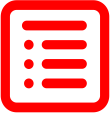
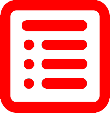
Alterações Estruturais

diff --git a/Form1.cs b/Form1.cs
@@ -212,14 +212,14 @@ namespace CORAC
 
                 if (Conteudo.Result.IsSuccessStatusCode)
                 {
-                    Bitmap Internet_ON = Change_Color(Properties.Resources.Update_System_126px, Vermelho, Azul);
+                    Bitmap Internet_ON = Change_Color(Properties.Resources.Update_System_256px, Vermelho, Azul);
                     picture_Atualizacoes_CORAC.Image = Internet_ON;
 
                     return true;
                 }
                 else
                 {
-                    Bitmap Internet_ON = Change_Color(Properties.Resources.Update_System_126px, Azul, Vermelho);
+                    Bitmap Internet_ON = Change_Color(Properties.Resources.Update_System_256px, Azul, Vermelho);
                     picture_Atualizacoes_CORAC.Image = Internet_ON;
                     return false;
                 }
@@ -232,7 +232,7 @@ namespace CORAC
                 Gerar_Arquivo.TratadorErros(E, GetType().Name);
 
                 picture_Atualizacoes_CORAC.SizeMode = PictureBoxSizeMode.StretchImage;
-                Bitmap Internet_ON = Change_Color(Properties.Resources.Update_System_126px, Azul, Vermelho);
+                Bitmap Internet_ON = Change_Color(Properties.Resources.Update_System_256px, Azul, Vermelho);
 
                 picture_Atualizacoes_CORAC.Image = Internet_ON;
 
@@ -270,7 +270,6 @@ namespace CORAC
                  await BuscarRegistro_CORAC.SelectTabelaJSON();
                 if (!BuscarRegistro_CORAC.getError)
                 {
-                    pictureBox_Registro_CORAC.SizeMode = PictureBoxSizeMode.StretchImage;
 
                     JProperty Dados = BuscarRegistro_CORAC.getDados().ResultadoDados;
                     if(Dados.Value.HasValues)
@@ -278,10 +277,36 @@ namespace CORAC
                         string Status = (string)Dados.Value[0][3];
                         if (Status == "Ativado")
                         {
-                            //Registro encontrado e equipamento ativado
+                            /**
+                             * Informando que a máquina está ligada
+                             */
+                            string getChave = Dados.Value[0][0].Value<string>();
+                            List<KeyValuePair<string, string>> KDados = new List<KeyValuePair<string, string>>();
+                            KDados.Add(new KeyValuePair<string, string>("0", getChave));
+                            BuscarRegistro_CORAC.setKeyDadosAtualizar(KDados);
+
+                            List<KeyValuePair<string, string>> ADados = new List<KeyValuePair<string, string>>();
+                            ADados.Add(new KeyValuePair<string, string>("Status", "Ligada"));
+
+                            BuscarRegistro_CORAC.sendTabela = "334644edbd3aecbe746b32f4f2e8e5fb";
+                            BuscarRegistro_CORAC.setDadosAtualizar(ADados);
+                            String Estado = "";
+                            Boolean Rst = await BuscarRegistro_CORAC.AtualizarDadosTabela();
+                            if (Rst)
+                            {
+                                Estado = "Mudança de status feita com sucesso!";
+                            }
+                            else
+                            {
+                                Estado = "Mudança de status não foi realizada com sucesso!";
+                            }
+                            /*
+                             * Registro encontrado e equipamento ativado
+                             */
                             Registro_Corac.Status = StatusRegistro.Habilitado;
-                            Bitmap Internet_ON = Change_Color(Properties.Resources.Registro_128px, Vermelho, Azul);
-                            pictureBox_Registro_CORAC.Tag = "Registro encontrado e equipamento ativado";
+                            pictureBox_Registro_CORAC.SizeMode = PictureBoxSizeMode.StretchImage;
+                            Bitmap Internet_ON = Change_Color(Properties.Resources.Registro_256px, Vermelho, Azul);
+                            pictureBox_Registro_CORAC.Tag = "Registro encontrado e equipamento ativado. " + Estado;
                             pictureBox_Registro_CORAC.Image = Internet_ON;
                             FiltrosB.Clear();
                             return true;
@@ -290,8 +315,9 @@ namespace CORAC
                         {
                             //Registro encontrado e equipamento desativado.
                             Registro_Corac.Status = StatusRegistro.Desabilitado;
-                            Bitmap Internet_ON = Change_Color(Properties.Resources.Registro_128px, Azul, Vermelho);
-                            pictureBox_Registro_CORAC.Tag = "Registro encontrado e equipamento desativado.";
+                            Bitmap Internet_ON = Change_Color(Properties.Resources.Registro_256px, Azul, Vermelho);
+                            pictureBox_Registro_CORAC.SizeMode = PictureBoxSizeMode.StretchImage;
+                            pictureBox_Registro_CORAC.Tag = "Registro encontrado e equipamento desativado. Favor requisitar habilitação junto ao administrador da sua unidade.";
                             pictureBox_Registro_CORAC.Image = Internet_ON;
                             FiltrosB.Clear();
                             return false;
@@ -322,7 +348,7 @@ namespace CORAC
                         }
 
                         //error, registro não encontrado
-                        Bitmap Internet_ON = Change_Color(Properties.Resources.Registro_128px, Azul, Vermelho);
+                        Bitmap Internet_ON = Change_Color(Properties.Resources.Registro_256px, Azul, Vermelho);
                         pictureBox_Registro_CORAC.Image = Internet_ON;
                         return false;
                     }
@@ -331,7 +357,7 @@ namespace CORAC
                 else
                 {
                     //Mensagem de error no site
-                    Bitmap Internet_ON = Change_Color(Properties.Resources.Registro_128px, Azul, Vermelho);
+                    Bitmap Internet_ON = Change_Color(Properties.Resources.Registro_256px, Azul, Vermelho);
                     pictureBox_Registro_CORAC.Tag = "O Site do CORAC devolveu um erro.";
                     pictureBox_Registro_CORAC.Image = Internet_ON;
                     FiltrosB.Clear();
@@ -347,7 +373,7 @@ namespace CORAC
                 Gerar_Arquivo.TratadorErros(E, GetType().Name);
 
 
-                Bitmap Internet_ON = Change_Color(Properties.Resources.Registro_128px, Azul , Vermelho);
+                Bitmap Internet_ON = Change_Color(Properties.Resources.Registro_256px, Azul , Vermelho);
                 pictureBox_Registro_CORAC.Tag = "Error reportado pelo tratador de erros.";
                 pictureBox_Registro_CORAC.SizeMode = PictureBoxSizeMode.StretchImage;
                 pictureBox_Registro_CORAC.Image = Internet_ON;

diff --git a/Form1.Designer.cs b/Form1.Designer.cs
@@ -357,11 +357,11 @@
             | System.Windows.Forms.AnchorStyles.Right)));
             this.picture_Atualizacoes_CORAC.Cursor = System.Windows.Forms.Cursors.Default;
             this.picture_Atualizacoes_CORAC.ErrorImage = null;
-            this.picture_Atualizacoes_CORAC.Image = global::CORAC.Properties.Resources.Update_System_126px;
+            this.picture_Atualizacoes_CORAC.Image = global::CORAC.Properties.Resources.Update_System_256px;
             this.picture_Atualizacoes_CORAC.InitialImage = null;
-            this.picture_Atualizacoes_CORAC.Location = new System.Drawing.Point(77, 45);
+            this.picture_Atualizacoes_CORAC.Location = new System.Drawing.Point(72, 45);
             this.picture_Atualizacoes_CORAC.Name = "picture_Atualizacoes_CORAC";
-            this.picture_Atualizacoes_CORAC.Size = new System.Drawing.Size(120, 131);
+            this.picture_Atualizacoes_CORAC.Size = new System.Drawing.Size(129, 131);
             this.picture_Atualizacoes_CORAC.SizeMode = System.Windows.Forms.PictureBoxSizeMode.StretchImage;
             this.picture_Atualizacoes_CORAC.TabIndex = 3;
             this.picture_Atualizacoes_CORAC.TabStop = false;
